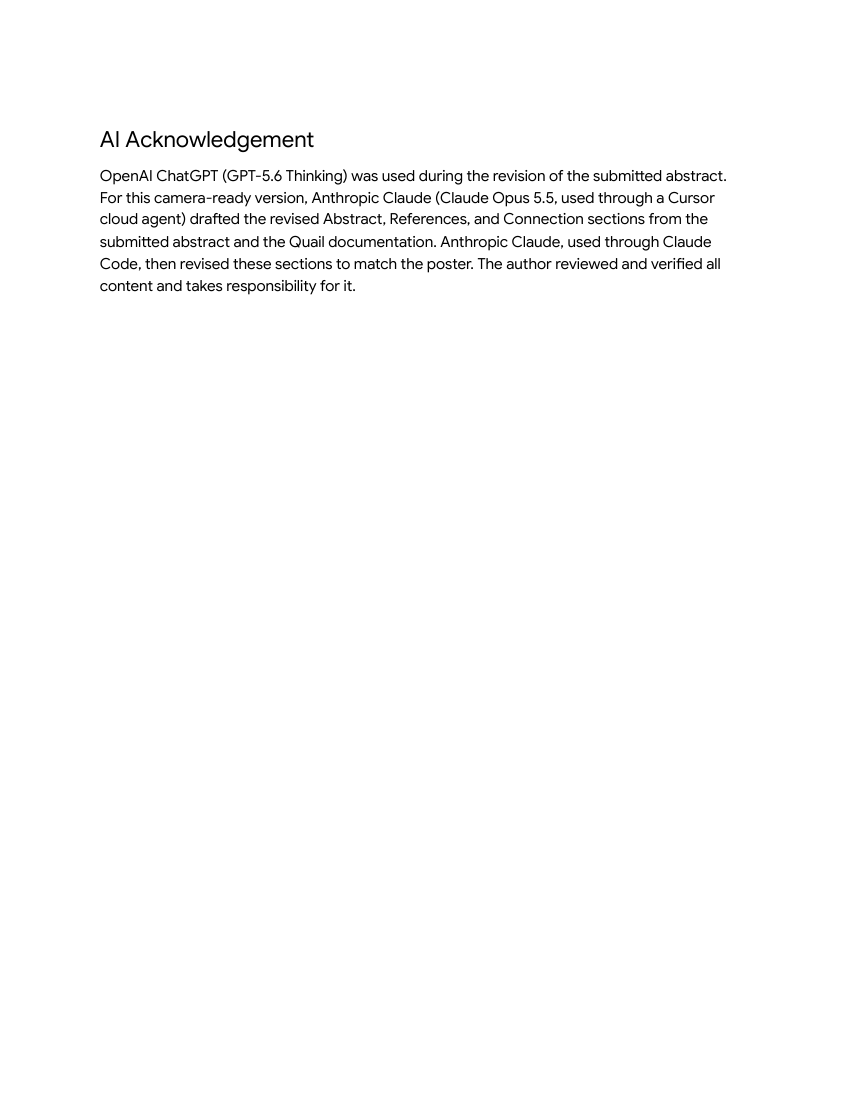
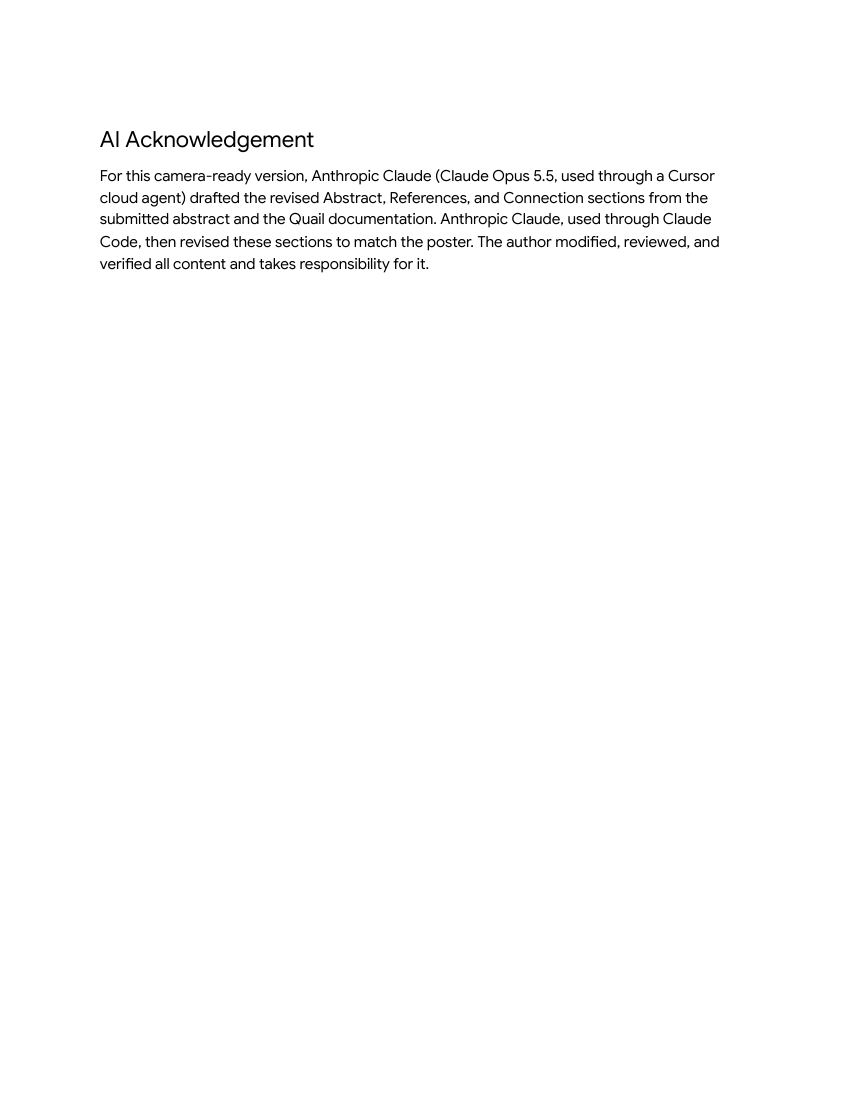
Drop the OpenAI sentence from the abstract's AI acknowledgement
The camera-ready text was rewritten with Claude, so only that use is
disclosed. Match the poster's "modified, reviewed, and verified".

Claude-Session: https://claude.ai/code/session_01ChZ8DmmKvsKSV4JFVieZLU

Changed region(s): [[0.1224, 0.1545, 0.8565, 0.2782]]

diff --git a/poster/abstract.html b/poster/abstract.html
@@ -59,7 +59,7 @@ print(count(close, by=Field("network")))</pre>
 <p style="padding-top:11pt">For Advocacy, Quail is an example of what a campus data and software support group can build in response to a local need. It came out of the DataSquad, a student-staffed group at Carleton College, after we saw campus offices collect open-ended survey answers they did not have time to analyze. It also addresses this year&rsquo;s theme, Advancing Science in the Age of AI: in qualitative research, researchers need to see exactly what an agent did, and question it, before they can trust its analysis.</p>
 
 <h2>AI Acknowledgement</h2>
-<p>OpenAI ChatGPT (GPT-5.6 Thinking) was used during the revision of the submitted abstract. For this camera-ready version, Anthropic Claude (Claude Opus 5.5, used through a Cursor cloud agent) drafted the revised Abstract, References, and Connection sections from the submitted abstract and the Quail documentation. Anthropic Claude, used through Claude Code, then revised these sections to match the poster. The author reviewed and verified all content and takes responsibility for it.</p>
+<p>For this camera-ready version, Anthropic Claude (Claude Opus 5.5, used through a Cursor cloud agent) drafted the revised Abstract, References, and Connection sections from the submitted abstract and the Quail documentation. Anthropic Claude, used through Claude Code, then revised these sections to match the poster. The author modified, reviewed, and verified all content and takes responsibility for it.</p>
 </div>
 
 </body>
